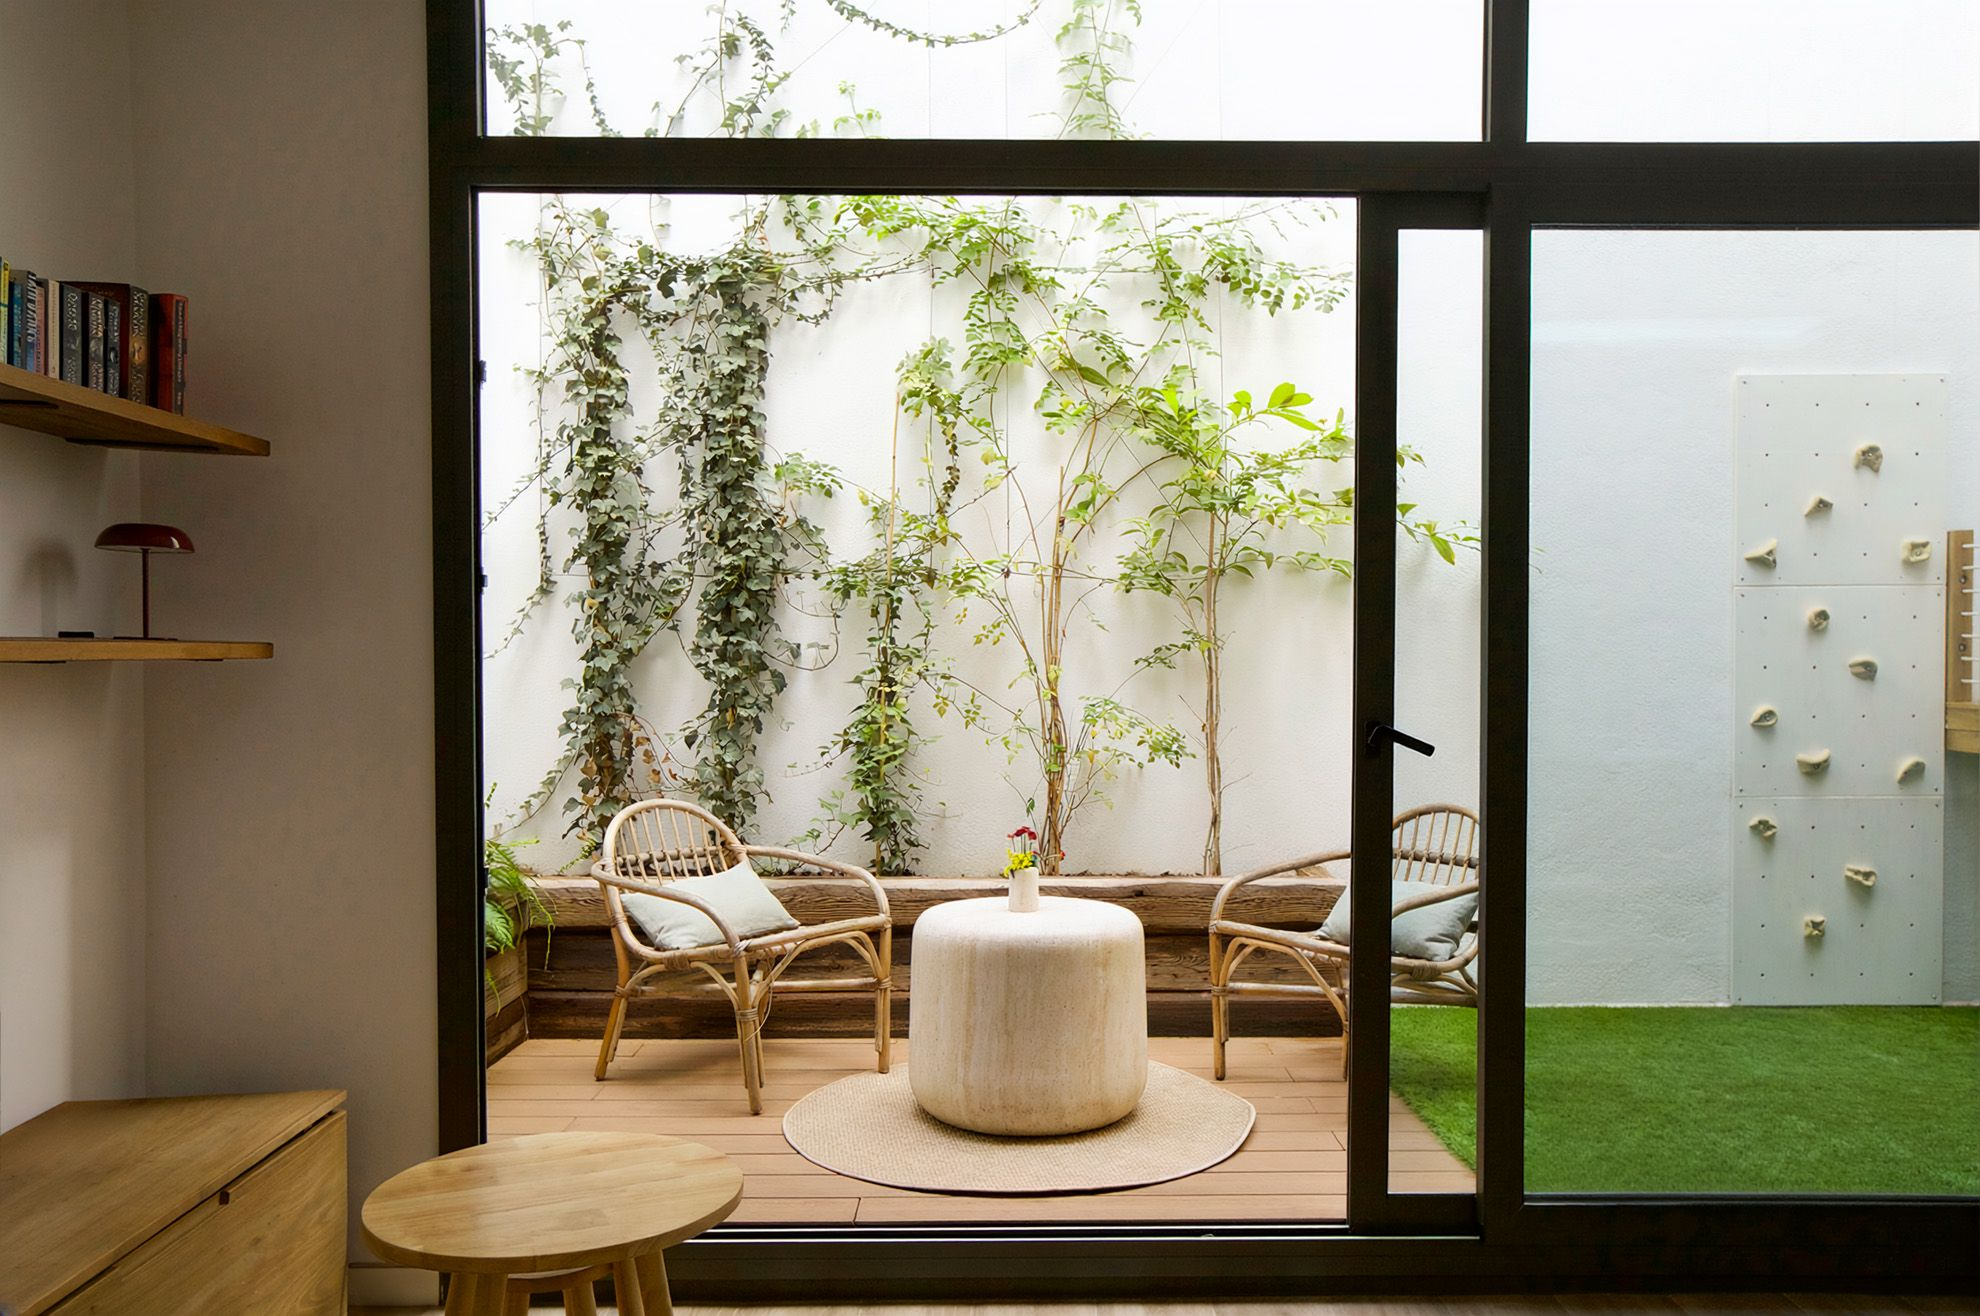
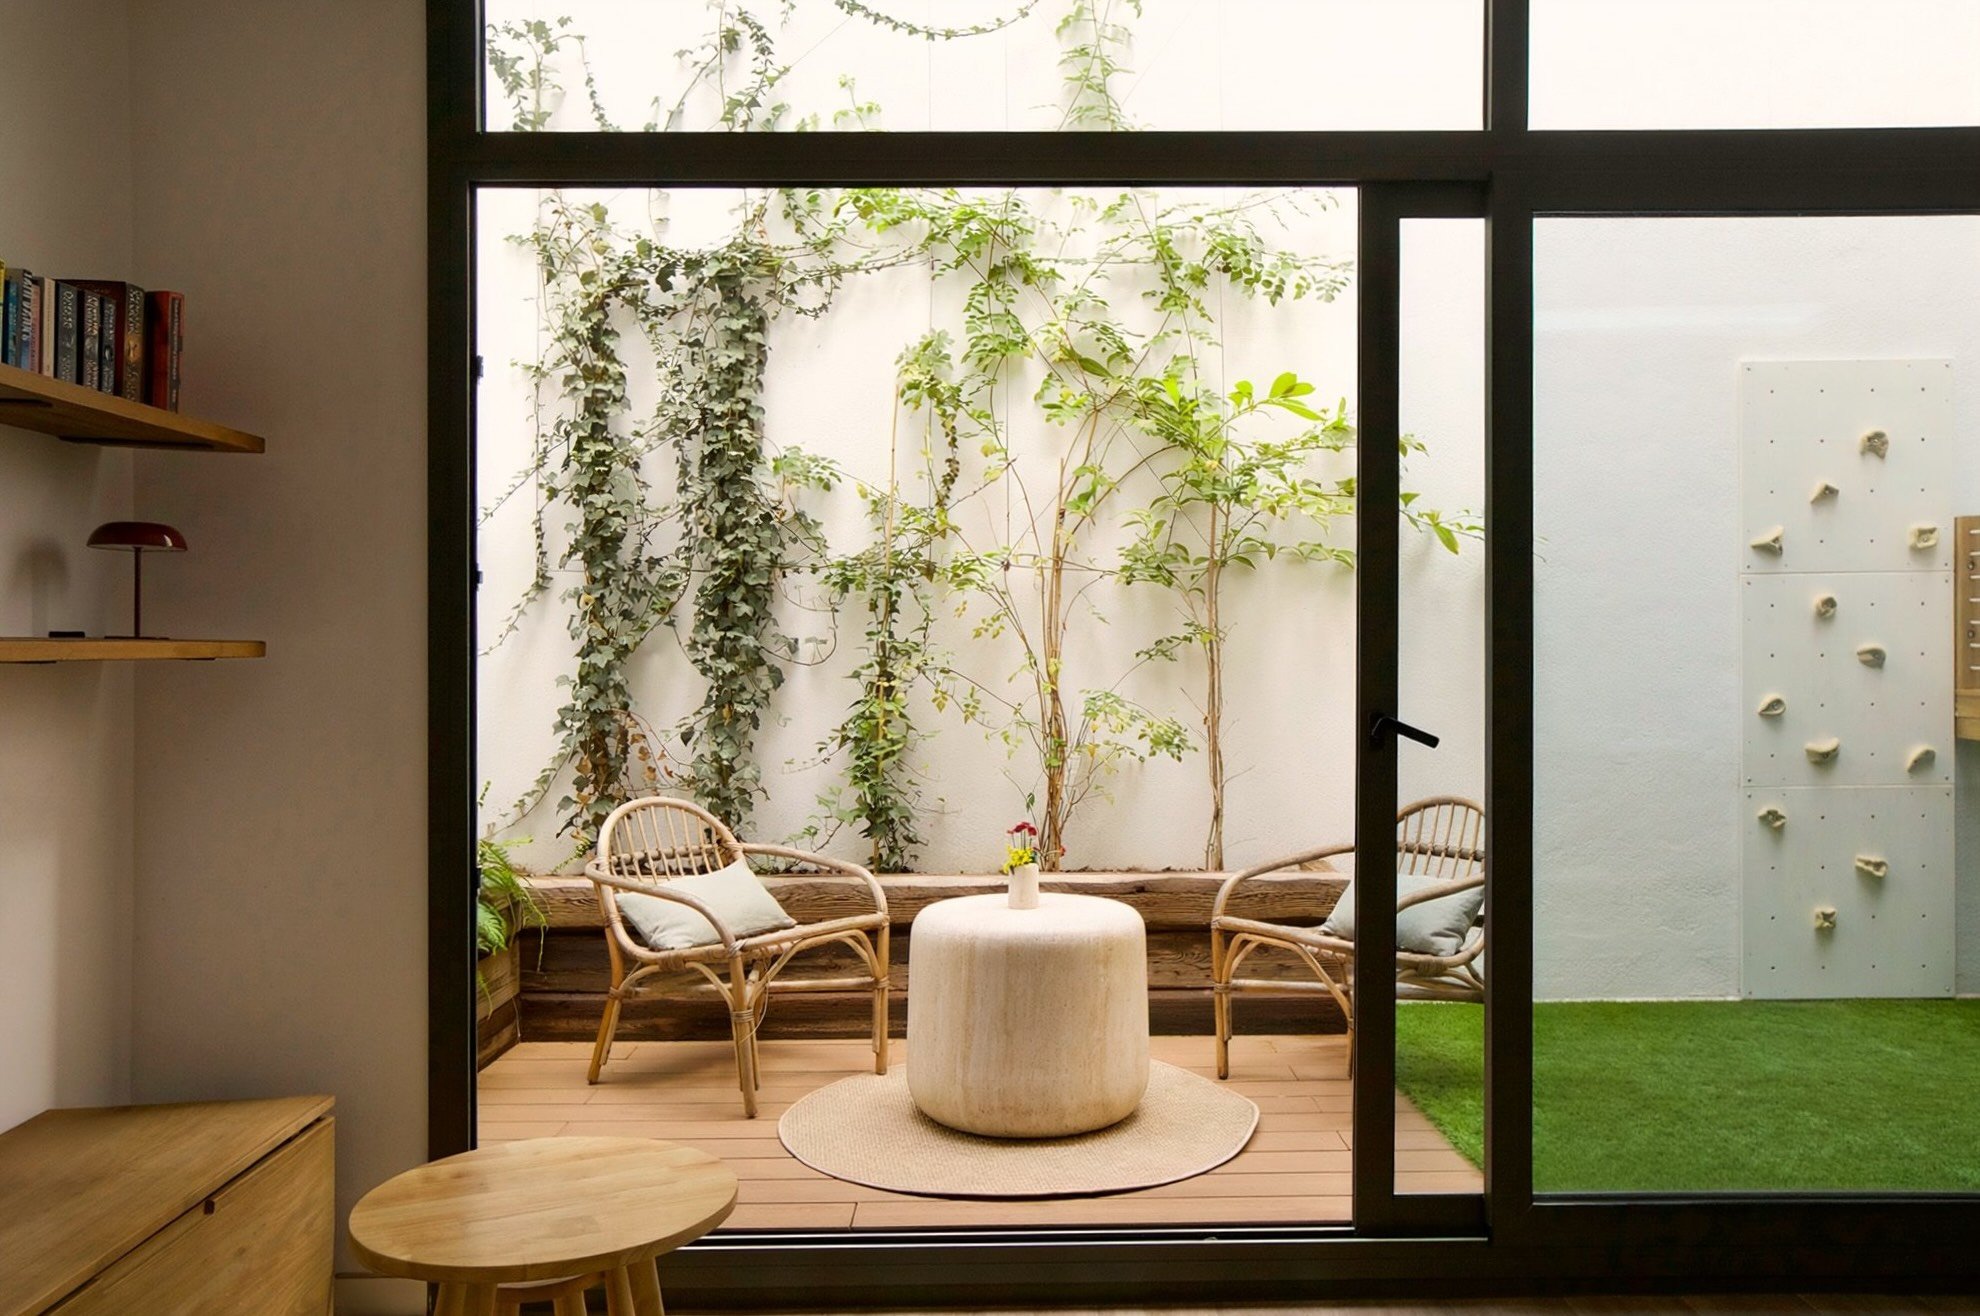
Hero: add the Sant Antoni kitchen; match the whites across slides; level the courtyard; quicker fade
Living room cooled slightly, kitchen warmed and lifted, courtyard warmed
so all three interiors share the same soft warm white. Courtyard
perspective corrected (frame level, posts vertical, ~1% trimmed).
Crossfade 1.8s -> 1.4s.

diff --git a/src/App.test.tsx b/src/App.test.tsx
@@ -13,13 +13,13 @@ describe('App', () => {
     expect(screen.getByRole('heading', { level: 1, name: hero.heading })).toBeInTheDocument();
   });
 
-  it('has three hero slides with a counter that moves to the next one', async () => {
+  it('has hero slides with a counter that moves to the next one', async () => {
     const user = userEvent.setup();
-    expect(document.querySelectorAll('.hero .slide')).toHaveLength(3);
-    const counter = screen.getByRole('button', { name: /Slide 1 of 3/ });
-    expect(counter).toHaveTextContent('1 / 3');
+    expect(document.querySelectorAll('.hero .slide')).toHaveLength(heroSlides.length);
+    const counter = screen.getByRole('button', { name: new RegExp(`Slide 1 of ${heroSlides.length}`) });
+    expect(counter).toHaveTextContent(`1 / ${heroSlides.length}`);
     await user.click(counter);
-    expect(counter).toHaveTextContent('2 / 3');
+    expect(counter).toHaveTextContent(`2 / ${heroSlides.length}`);
     expect(screen.getByRole('link', { name: new RegExp(heroSlides[1].caption) })).toHaveAttribute('href', '#projects');
   });
 

diff --git a/src/content.ts b/src/content.ts
@@ -52,6 +52,14 @@ export const heroSlides: HeroSlide[] = [
     tone: 'light',
   },
   {
+    image: '/images/hero-sant-antoni-kitchen.jpg',
+    alt: 'The open kitchen in Sant Antoni: grey handleless cabinets, a lit terracotta tile splashback and an oak island with finger-jointed corners under two copper pendants',
+    caption: 'Open Kitchen, Sant Antoni',
+    focus: '70% 60%',
+    zoom: 1,
+    tone: 'light',
+  },
+  {
     image: '/images/hero-japandi-clot-terrace.jpg',
     alt: 'The terrace of the Japandi apartment in Clot: rattan chairs and a stone table under climbing plants, seen through a black-framed glass door',
     caption: 'Indoor Courtyard, Barcelona',

diff --git a/src/styles.css b/src/styles.css
@@ -183,7 +183,7 @@ strong, b { font-weight: 500; }
   inset: 0;
   overflow: clip;
   opacity: 0;
-  transition: opacity 1.8s cubic-bezier(0.4, 0, 0.2, 1);
+  transition: opacity 1.4s cubic-bezier(0.4, 0, 0.2, 1);
 }
 .slide.is-active { opacity: 1; }
 .slide img,
